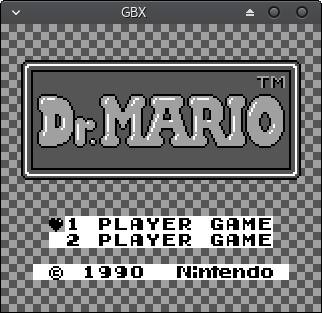
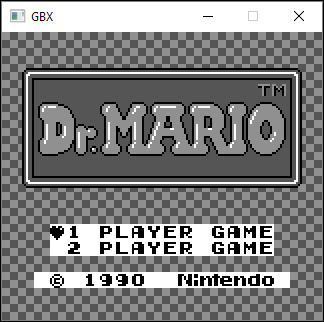
sprite palletes bug fix

diff --git a/Source/SDL/sdl_main.cpp b/Source/SDL/sdl_main.cpp
@@ -1,6 +1,5 @@
 #include <stdio.h>
 #include <stdlib.h>
-#include <time.h>
 #include <SDL2/SDL.h>
 #include <Utix/Assert.h>
 #include <Utix/ScopeExit.h>
@@ -48,8 +47,9 @@ int main(int argc, char** argv)
 	});
 
 	SDL_Event event;
-	decltype(SDL_GetTicks()) last_ticks = 0;
+	Uint32 last_ticks = 0;
 	size_t itr = 0;
+
 	while (true) {
 
 		if (SDL_PollEvent(&event)) {
@@ -69,17 +69,18 @@ int main(int argc, char** argv)
 		
 		if (gameboy->gpu.GetMode() != gbx::GPU::Mode::VBLANK) {
 			RenderGraphics(gameboy->gpu, gameboy->memory);
-			SDL_Delay(1000 / 60);
 			++itr;
 		}
 
-		
 		const auto ticks = SDL_GetTicks();
+		
 		if (ticks > (last_ticks + 1000)) {
 			printf("ITR: %zu\n", itr);
 			itr = 0;
 			last_ticks = ticks;
 		}
+
+		SDL_Delay(16);
 	}
 
 	return EXIT_SUCCESS;
@@ -95,13 +96,13 @@ int main(int argc, char** argv)
 
 namespace {
 
-// TODO: endiannes checks, this is little endian only
+// TODO: endian checks
 
 enum Color : Uint32
 {
 	BLACK = 0x00000000,
 	WHITE = 0xFFFFFF00,
-	LIGHT_GREY = 0xA0A0A000,
+	LIGHT_GREY = 0x90909000,
 	DARK_GREY = 0x55555500,
 };
 
@@ -146,8 +147,7 @@ static void DrawOBJ(const gbx::GPU& gpu, const gbx::Memory& memory);
 static void DrawTileMap(const Tile* tiles, const TileMap* map, uint8_t pallete, bool unsigned_map);
 static void DrawTile(const Tile& tile, uint8_t pallete, uint8_t x, uint8_t y);
 static void DrawSprite(const Sprite& sprite, const SpriteAttr& attr, const gbx::GPU& gpu);
-static Color SolvePallete(const Tile& tile, uint8_t row, uint8_t bit, uint8_t pallete);
-inline Color SolvePallete(const Sprite& sprite, uint8_t row, uint8_t bit, uint8_t pallete);
+static Color SolvePallete(uint16_t color_number, uint8_t bit, uint8_t pallete);
 inline Color CheckPixel(uint8_t x, uint8_t y);
 inline void DrawPixel(Color pixel, uint8_t x, uint8_t y);
 
@@ -157,28 +157,31 @@ inline void DrawPixel(Color pixel, uint8_t x, uint8_t y);
 
 static void RenderGraphics(const gbx::GPU& gpu, const gbx::Memory& memory)
 {
-	if (!gpu.BitLCDC(gbx::GPU::LCD_ON_OFF)) {
+	using gbx::GPU;
+
+	const uint8_t lcdc = gpu.lcdc;
+
+	if (!(lcdc & GPU::LCD_ON_OFF)) {
 		SDL_RenderClear(renderer);
 		SDL_RenderPresent(renderer);
 		return;
 	}
 	
 	int pitch;
-	
 	if (SDL_LockTexture(texture, nullptr, (void**)&gfx_buffer, &pitch) != 0) {
-		fprintf(stderr, "failed to lock texture");
+		fprintf(stderr, "failed to lock texture: %s\n", SDL_GetError());
 		return;
 	}
 
-	if (gpu.BitLCDC(gbx::GPU::BG_ON_OFF))
+	if (lcdc & GPU::BG_ON_OFF)
 		DrawBG(gpu, memory);
 	else
 		SDL_RenderClear(renderer);
 
-	if (gpu.BitLCDC(gbx::GPU::WIN_ON_OFF))
+	if (lcdc & GPU::WIN_ON_OFF)
 		DrawWIN(gpu, memory);
 
-	if (gpu.BitLCDC(gbx::GPU::OBJ_ON_OFF))
+	if (lcdc & GPU::OBJ_ON_OFF)
 		DrawOBJ(gpu, memory);
 
 
@@ -257,19 +260,22 @@ static void DrawTileMap(const Tile* tiles, const TileMap* map, uint8_t pallete, 
 
 static void DrawTile(const Tile& tile, uint8_t pallete, uint8_t x, uint8_t y)
 {
-	for (uint8_t tile_y = 0; tile_y < 8; ++tile_y) {
+	for (uint8_t row = 0; row < 8; ++row) {
+		const uint16_t color_number = (tile.data[row][1] << 8) | tile.data[row][0];
 		for (uint8_t bit = 0; bit < 8; ++bit) {
-			const auto pixel = SolvePallete(tile, tile_y, bit, pallete);
-			DrawPixel(pixel, x + bit, y + tile_y);
+			const auto pixel = SolvePallete(color_number, bit, pallete);
+			DrawPixel(pixel, x + bit, y + row);
 		}
 	}
 }
 
 
 
+
+
 static void DrawSprite(const Sprite& sprite, const SpriteAttr& attr, const gbx::GPU& gpu)
 {
-	const uint8_t pallete = gbx::TestBit(4, attr.flags) ? gpu.obp1 : gpu.obp0;
+	const uint8_t pallete = 0xfc & ( gbx::TestBit(4, attr.flags) ? gpu.obp1 : gpu.obp0 );
 	
 	const bool priority = gbx::TestBit(7, attr.flags) != 0;
 	ASSERT_MSG(!gbx::TestBit(6, attr.flags), "NEED YFLIP");
@@ -277,15 +283,17 @@ static void DrawSprite(const Sprite& sprite, const SpriteAttr& attr, const gbx::
 
 	const uint8_t xpos = attr.xpos - 8;
 	const uint8_t ypos = attr.ypos - 16;
+	
 	if (xpos >= 160 && ypos >= 144)
 		return;
-
 
 	for (uint8_t row = 0; row < 8; ++row) {
 		const uint8_t abs_ypos = ypos + row;
 		if (abs_ypos >= WIN_WIDTH)
 			break;
 
+		const uint16_t color_number = (sprite.data[row][1] << 8) | sprite.data[row][0];
+		
 		for (uint8_t bit = 0; bit < 8; ++bit) {
 			const uint8_t abs_xpos = xpos + bit;
 			if (abs_xpos >= 160)
@@ -293,8 +301,9 @@ static void DrawSprite(const Sprite& sprite, const SpriteAttr& attr, const gbx::
 			else if (priority && CheckPixel(abs_xpos, abs_ypos) != WHITE)
 					continue;
 
-			const auto pixel = SolvePallete(sprite, row, bit, pallete);
-			DrawPixel(pixel, abs_xpos, abs_ypos);
+			const auto pixel = SolvePallete(color_number, bit, pallete);
+			if (pixel != WHITE)
+				DrawPixel(pixel, abs_xpos, abs_ypos);
 		}
 	}
 }
@@ -302,7 +311,10 @@ static void DrawSprite(const Sprite& sprite, const SpriteAttr& attr, const gbx::
 
 
 
-static Color SolvePallete(const Tile& tile, uint8_t row, uint8_t bit, uint8_t pallete)
+
+
+
+static Color SolvePallete(const uint16_t color_number, uint8_t bit, uint8_t pallete)
 {
 	const auto get_color = [=](uint8_t pallete_value) {
 		switch (pallete_value) {
@@ -313,8 +325,8 @@ static Color SolvePallete(const Tile& tile, uint8_t row, uint8_t bit, uint8_t pa
 		};
 	};
 
-	const uint8_t downbit = (tile.data[row][0] & (0x80 >> bit)) ? 1 : 0;
-	const uint8_t upperbit = (tile.data[row][1] & (0x80 >> bit)) ? 1 : 0;
+	const uint8_t downbit = (color_number & (0x80 >> bit)) ? 1 : 0;
+	const uint8_t upperbit = ((color_number>>8) & (0x80 >> bit)) ? 1 : 0;
 
 	const uint8_t value = (upperbit << 1) | downbit;
 
@@ -327,10 +339,6 @@ static Color SolvePallete(const Tile& tile, uint8_t row, uint8_t bit, uint8_t pa
 }
 
 
-inline Color SolvePallete(const Sprite& sprite, uint8_t row, uint8_t bit, uint8_t pallete)
-{
-	return SolvePallete(reinterpret_cast<const Tile&>(sprite), row, bit, pallete);
-}
 
 
 inline Color CheckPixel(uint8_t x, uint8_t y)
@@ -339,10 +347,13 @@ inline Color CheckPixel(uint8_t x, uint8_t y)
 }
 
 
+
 inline void DrawPixel(Color pixel, uint8_t x, uint8_t y)
 {
 	gfx_buffer[(y * WIN_WIDTH) + x] = pixel;
 }
+
+
 
 
 static void UpdateKey(gbx::KeyState state, SDL_Scancode keycode, gbx::Keys* keys)

diff --git a/Source/CPU.hpp b/Source/CPU.hpp
@@ -55,7 +55,7 @@ struct CPU
 	void SetHL(const uint16_t val);
 	void SetClock(const uint32_t cycles);
 
-	void AddCycles(const uint8_t cycles);
+	void AddCycles(const uint16_t cycles);
 	void AddPC(const uint16_t val);
 	void SetFlags(const CPU::Flags flags);
 	void ClearFlags(const CPU::Flags flags);
@@ -220,7 +220,7 @@ inline void CPU::SetBC(const uint16_t val) { bc.pair = val; }
 inline void CPU::SetDE(const uint16_t val) { de.pair = val; }
 inline void CPU::SetHL(const uint16_t val) { hl.pair = val; }
 inline void CPU::SetClock(const uint32_t cycles) { clock = cycles; }
-inline void CPU::AddCycles(const uint8_t value) { clock += value; }
+inline void CPU::AddCycles(const uint16_t value) { clock += value; }
 inline void CPU::AddPC(const uint16_t val) { pc += val; }
 
 inline void CPU::SetFlags(const CPU::Flags flags)

diff --git a/Source/Memory.cpp b/Source/Memory.cpp
@@ -243,14 +243,17 @@ uint16_t Gameboy::PopStack16()
 
 static void dma_transfer(const uint8_t value, Gameboy* const gb)
 {
-	uint16_t source_addrs = value * 0x100;
-	if ((source_addrs + 0xA0) <= 0x8000) {
-		const size_t nbytes = sizeof(uint8_t) * 0xA0;
-		memcpy(gb->memory.oam, gb->memory.home + source_addrs, nbytes);
+	uint16_t source_addr = value * 0x100;
+	const uint8_t nbytes = 0xA0;
+	if (source_addr == 0xC000) {
+		memcpy(gb->memory.oam, gb->memory.wram, sizeof(uint8_t) * nbytes);
+	}
+	else if (source_addr == 0x8000) {
+		memcpy(gb->memory.oam, gb->memory.vram, sizeof(uint8_t) * nbytes);
 	}
 	else {
-		for (size_t i = 0; i < 0xA0; ++i, ++source_addrs)
-			gb->memory.oam[i] = gb->ReadU8(source_addrs);
+		for (size_t i = 0; i < nbytes; ++i)
+			gb->memory.oam[i] = gb->ReadU8(source_addr++);
 	}
 }
 
